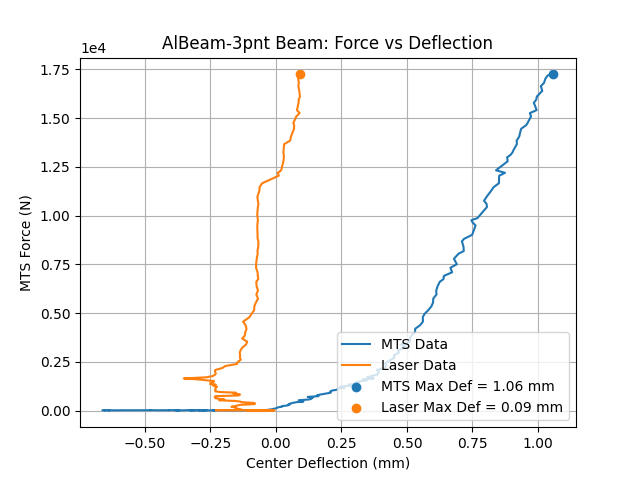
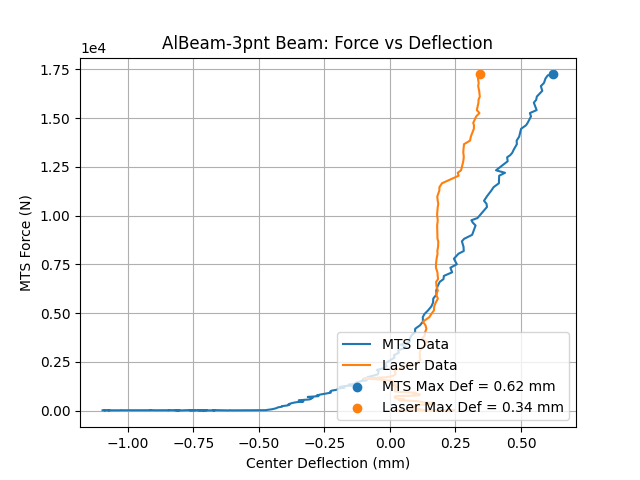
gr

diff --git a/src/graphing.py b/src/graphing.py
@@ -76,6 +76,7 @@ def DisplacementGraph(data: pd.DataFrame, test: str, save: bool):
 
     max_force = max(force)
     mf_ind = force.to_list().index(max_force)
+    # straight_ind = data['SG_2'].iloc[>0.2e-4]
 
     max_d = []
 
@@ -85,9 +86,9 @@ def DisplacementGraph(data: pd.DataFrame, test: str, save: bool):
         
         disp = -(data[s])
 
-        if s == 'MTS_d':
+        if s == 'Actual_LD':
             if test == 'AlBeam-3pnt':
-                disp = disp - disp[65]
+                disp = disp - disp[100]
             elif test == 'AlBeam-4pnt':
                 disp = disp - disp[0]
             else:
